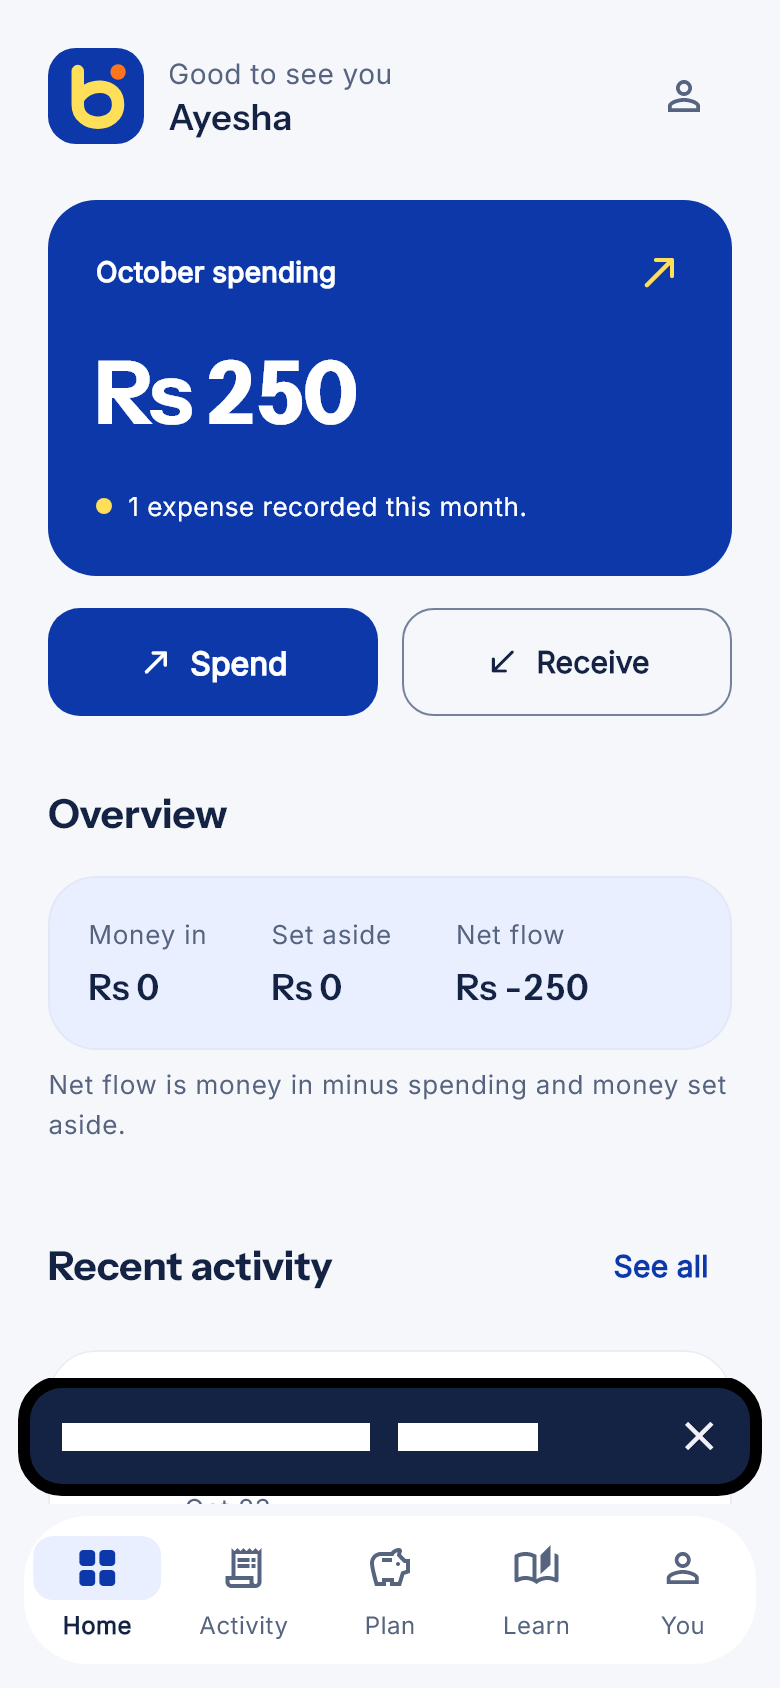
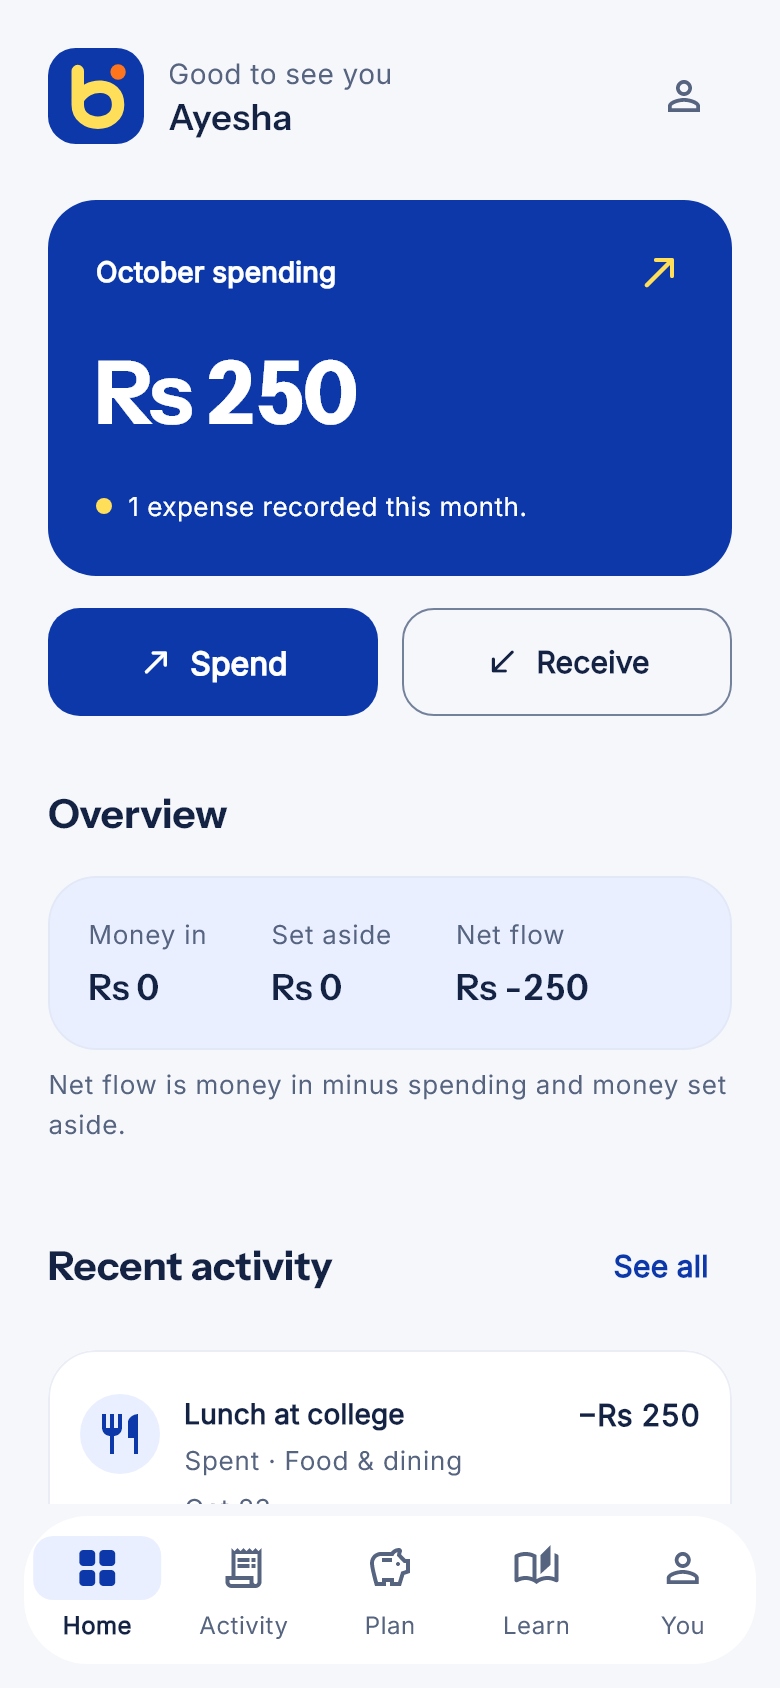
test: capture settled Home after the first expense

Changed region(s): [[0.0, 0.8009, 0.9846, 0.8934]]

diff --git a/tool/onboarding_preview_test.dart b/tool/onboarding_preview_test.dart
@@ -207,6 +207,9 @@ void main() {
     await capture('10-first-expense');
     await tap('Save transaction');
     expect(controller.entries.single.amountMinor, 25000);
+    // Show the settled Home state after the transient save toast disappears.
+    await tester.pump(const Duration(seconds: 4));
+    await tester.pumpAndSettle();
     await tester.drag(
       find.byType(SingleChildScrollView).first,
       const Offset(0, 3000),
